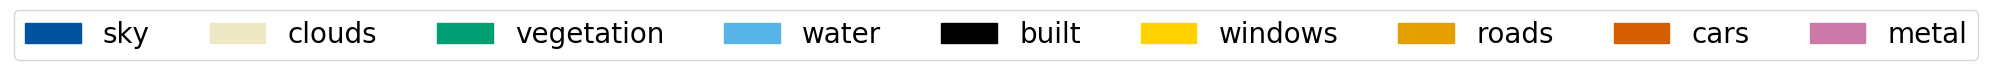
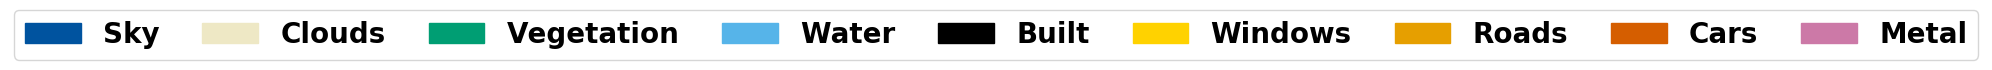
plotting legend

diff --git a/plot_legend.py b/plot_legend.py
@@ -2,12 +2,12 @@ import matplotlib
 import matplotlib.pyplot as plt
 import matplotlib.patches as mpatches
 font = {'family' : 'DejaVu Sans',
-        'weight' : 'normal',
+        'weight' : 'bold',
        'size' : 20}
 matplotlib.rc('font', **font)
  
-labels = ['sky', 'clouds','vegetation', 'water', 'built',
-          'windows', 'roads', 'cars', 'metal']
+labels = ['Sky', 'Clouds','Vegetation', 'Water', 'Built',
+          'Windows', 'Roads', 'Cars', 'Metal']
 
 colors = [[0,0.32549,0.62353,1], [0.93333,0.9098,0.77255,1], [0,0.61961,0.45098,1],  [0.33725,0.70588,0.91373,1],
         [0,0,0,1], [1,0.82353,0,1], [0.90196,0.62353,0,1], [0.83529,0.36863,0,1], [0.8,0.47451,0.65490,1]]
